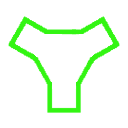
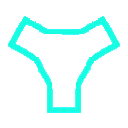
Fixes
Fixed STA display colour/type, waypoint size and x position.

Changed region(s): [[0.0625, 0.125, 0.9375, 0.9062]]

diff --git a/html_ui/Pages/VCockpit/Instruments/Airliners/B747_8/MFD/Svg/SvgWaypointElement.js b/html_ui/Pages/VCockpit/Instruments/Airliners/B747_8/MFD/Svg/SvgWaypointElement.js
@@ -297,7 +297,7 @@ class SvgWaypointElement extends SvgMapElement {
                 this._lastY = this.y;
                 let x = (this.x - map.config.waypointIconSize / map.overdrawFactor * 0.5 * (this.minimize ? 0.5 : 1));
                 let y = (this.y - map.config.waypointIconSize / map.overdrawFactor * 0.5 * (this.minimize ? 0.5 : 1));
-                this.svgElement.setAttribute("x", x - 7 + "");
+                this.svgElement.setAttribute("x", x + "");
                 this.svgElement.setAttribute("y", y + "");
                 if (this.source instanceof AirportInfo) {
                     let a = this.source.longestRunwayDirection;

diff --git a/html_ui/Pages/VCockpit/Instruments/Airliners/B747_8/MFD/Svg/SvgMapConfig.js b/html_ui/Pages/VCockpit/Instruments/Airliners/B747_8/MFD/Svg/SvgMapConfig.js
@@ -20,7 +20,7 @@ class SvgMapConfig {
         this.intersectionLabelColor = "cyan";
         this.intersectionLabelBackgroundPaddingLeft = 6;
         this.intersectionLabelBackgroundPaddingTop = 20;
-        this.vorLabelColor = "lime";
+        this.vorLabelColor = "cyan";
         this.vorLabelBackgroundPaddingLeft = 0;
         this.vorLabelBackgroundPaddingTop = 20;
         this.ndbLabelColor = "white";

diff --git a/html_ui/Pages/VCockpit/Instruments/Airliners/B747_8/FlightElements/Waypoint.js b/html_ui/Pages/VCockpit/Instruments/Airliners/B747_8/FlightElements/Waypoint.js
@@ -651,7 +651,7 @@ class VORInfo extends WayPointInfo {
             case 5:
                 fName = "ICON_MAP_VOR_VORTAC.svg";
             case 6:
-                fName = "ICON_MAP_VOR.svg";
+                fName = "ICON_MAP_VOR_VORTAC.svg";
         }
         if (BaseInstrument.useSvgImages) {
             return fName;
